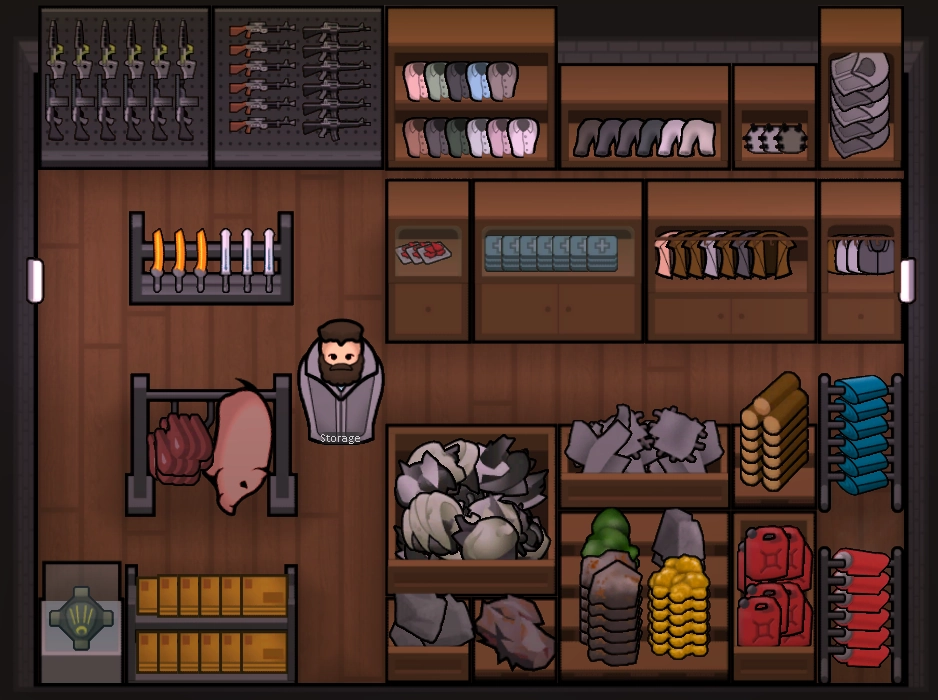
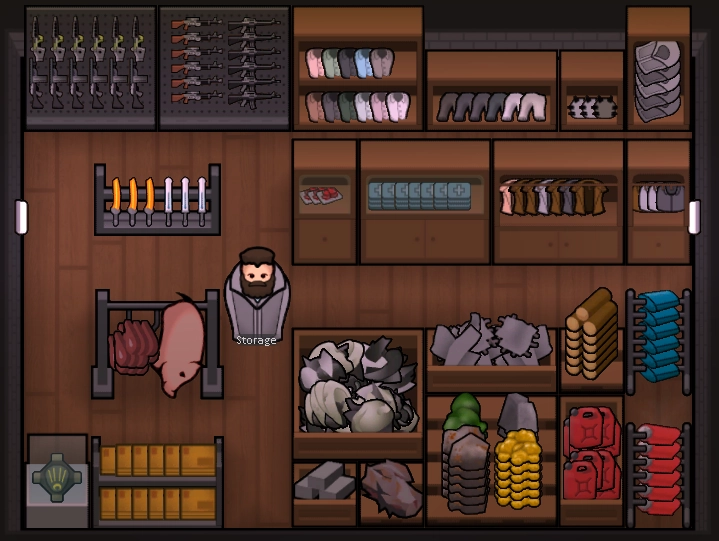
edit: SteamWorkshopImage

Changed region(s): [[0.0, 0.0, 0.9791, 0.976], [0.1224, 0.2957, 0.3366, 0.4436]]

diff --git a/_posts/2000-01-01-SteamWorkshopImage.md b/_posts/2000-01-01-SteamWorkshopImage.md
@@ -9,4 +9,4 @@ image: "/assets/favicons/favicon-512x512.png"
 <img src="https://seobongzu.com/assets/images/rimworld/SteamWorkshop/MechanoidBench_MechanoidBench3.webp" alt="Mechanoid Bench 3" width=735px height=369px>
 <img src="https://seobongzu.com/assets/images/rimworld/SteamWorkshop/MechanoidBench_MechanoidBench.webp" alt="Mechanoid Bench" width=560px height=301px>
 <img src="https://seobongzu.com/assets/images/rimworld/SteamWorkshop/MechanoidBench_MechaComponent.webp" alt="Mecha Component" width=122px height=119px>
-<img src="https://seobongzu.com/assets/images/rimworld/SteamWorkshop/NeatStorage.webp" alt="Neat Storage" width=938px height=700px>
+<img src="https://seobongzu.com/assets/images/rimworld/SteamWorkshop/NeatStorage.webp" alt="Neat Storage" width=719px height=541px>
